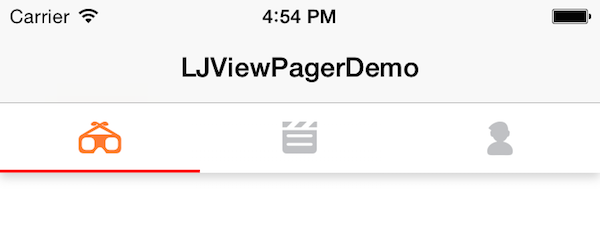
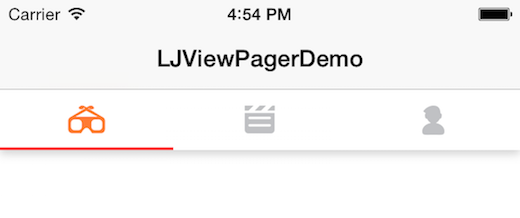
update readme

diff --git a/README.md b/README.md
@@ -1,10 +1,12 @@
 # LJViewPager
 
 ##Description
+LJViewPager is easy to help you to add sub viewControllers into one parent viewController and scroll left and right to switch between them, and there is a convenient way to add a tab for each sub viewController.
+
 ![](https://i.imgflip.com/lmn33.gif) 
 ![](https://i.imgflip.com/lmmxg.gif)
+![](https://github.com/lizhijiang/LJViewPager/blob/master/LJViewPagerDemo/screenshots/screenshot1.png?raw=true)
 
-LJViewPager is easy to help you to add sub viewControllers into one parent viewController and scroll left and right to switch between them, and there is a convenient way to add a tab for each sub viewController.
 
 ##Installation
 * Drag the LJViewPager/LJViewPager folder into your project.
